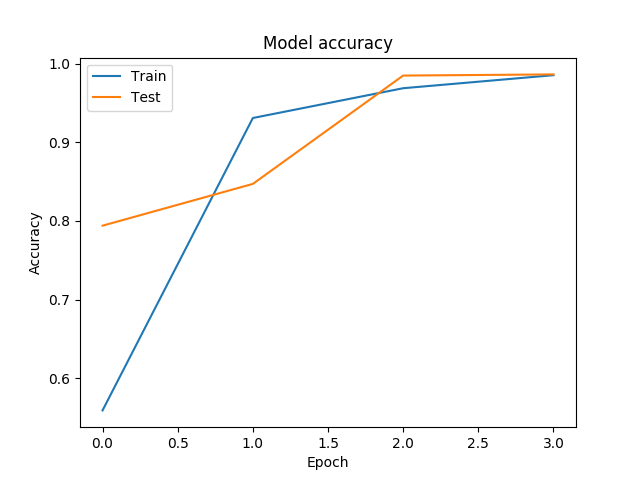
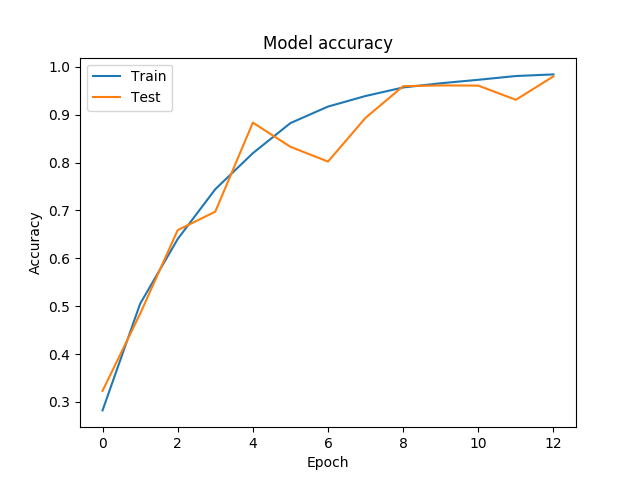
Added predictions and confusion matrix export
Updated Read me,
Sample confusion matrix,
Removed early stopping of training

diff --git a/main.py b/main.py
@@ -1,7 +1,10 @@
 '''
 Function to train driver distraction detection
 date: 22.07.2019
-Arguments: -m --> to train mobile only network
+Arguments:  -m --> to train mobile only network
+            -t --> to test a trained network and generate confusion matrix
+            -p --> to provide a new path of the trained model. Default pathn is 
+                    same folder
 '''
 
 import keras
@@ -10,6 +13,7 @@ import matplotlib.pyplot as plt
 import model as m
 import loader as L
 import numpy
+from sklearn.metrics import confusion_matrix
 
 suffix = None
 
@@ -19,9 +23,9 @@ if '-m' in sys.argv:
     model = m.model()[0]
     suffix = "Mobile"
 else:
-	print("INFO: Training for all distractions ...........")
-	model = m.model()[0]
-	suffix= "All"
+    print("INFO: Training for all distractions ...........")
+    model = m.model()[0]
+    suffix= "All"
 
 # Number of epochs 
 epoch = 13
@@ -37,38 +41,81 @@ y_val = numpy.array(y_val)
 es = keras.callbacks.EarlyStopping(monitor='val_loss', mode='min', verbose=1)
 mc = keras.callbacks.ModelCheckpoint('best_model' + suffix + '.h5', monitor='val_loss', mode='min')
 
-model.compile(optimizer='RMSprop', loss='categorical_crossentropy', metrics=['accuracy'])
+rmsprop = keras.optimizers.RMSprop(lr=0.0001, decay=1e-6) #rho=0.9, epsilon=None
+
+model.compile(optimizer=rmsprop, loss='categorical_crossentropy', metrics=['accuracy'])
 
 # To check the validity of data
 for ele in x_train:
-	if numpy.isnan(numpy.sum(ele)):
-		print("Found NAAAAAAAAAAAAAAAAAAAAAAAAAAAAN")
-	if numpy.isinf(numpy.sum(ele)):
-		print("Found INFFFFFFFFFFFFFFFFFFFFFFFFFFFF")
+    if numpy.isnan(numpy.sum(ele)):
+        print("Found NAAAAAAAAAAAAAAAAAAAAAAAAAAAAN")
+    if numpy.isinf(numpy.sum(ele)):
+        print("Found INFFFFFFFFFFFFFFFFFFFFFFFFFFFF")
 for ele in x_val:
-	if numpy.isnan(numpy.sum(ele)):
-		print("Found NAAAAAAAAAAAAAAAAAAAAAAAAAAAAN")
-	if numpy.isinf(numpy.sum(ele)):
-		print("Found INFFFFFFFFFFFFFFFFFFFFFFFFFFFF")
+    if numpy.isnan(numpy.sum(ele)):
+        print("Found NAAAAAAAAAAAAAAAAAAAAAAAAAAAAN")
+    if numpy.isinf(numpy.sum(ele)):
+        print("Found INFFFFFFFFFFFFFFFFFFFFFFFFFFFF")
 
-history = model.fit(x_train, y_train, validation_data=(x_val, y_val), epochs=epoch, batch_size=batch_size, callbacks=[es, mc])
+def getTrainedModel(p='best_modelAll.h5'):
+    if ('-m' in sys.argv) and not('-p' in sys.argv):
+        p = 'best_modelMobile.h5'
+    if '-p' in sys.argv:
+        for arg in sys.argv:
+            if not(arg in ["main.py", "-p", "-m", "-t"]):
+                p = arg
+    return(keras.models.load_model(p))
 
-print(history.history)
+def plotSaveConfusionMatrix(matrix, classes="All"):
+    #for matrix in confusion_matrices:
+    fig, ax = plt.subplots(figsize=(8,8))
+    ax.matshow(matrix, cmap='seismic', aspect='auto')
+    for (i, j), z in numpy.ndenumerate(matrix):
+        ax.text(j, i, '{:0.1f}'.format(z), ha='center', va='center',fontsize=8, color='white')
+    plt.title('Confusion Matrix DDD : ' + classes + ' Classes', fontsize=14)
+    plt.ylabel('True Label')
+    plt.xlabel('Predicated Label')
+    if classes == "All":
+        l = numpy.array([0,1,2,3,4,5,6,7,8,9])
+        c = ['c0','c1','c2','c3','c4','c5','c6','c7','c8','c9']
+    else:
+        l = numpy.array([0,1,2,3,4,5])
+        c = ['c0','c1','c2','c3','c4','c5']
+    plt.xticks(l, c)
+    plt.yticks(l, c)
+    plt.savefig(classes + 'Classes' +'Confusion_matrix'+'.png')
 
-# Plot training & validation accuracy values
-plt.plot(history.history['acc'])
-plt.plot(history.history['val_acc'])
-plt.title('Model accuracy')
-plt.ylabel('Accuracy')
-plt.xlabel('Epoch')
-plt.legend(['Train', 'Test'], loc='upper left')
-plt.show()
+if '-t' in sys.argv:
+    #Testing previously trained model
+    if '-t' in sys.argv:
+        model = getTrainedModel()
+    score = model.evaluate(x_val, y_val, verbose=0)
+    print("%s: %.2f%%" % (model.metrics_names[1], score[1]*100))
+    predictions = model.predict(x_val)
+    matrix = confusion_matrix(y_val.argmax(axis=1), predictions.argmax(axis=1))
+    if '-m'in sys.argv:
+        classes = 'Mobile'
+    else:
+        classes = 'All'
+    print("Confusion Matrix : ", matrix)
+    plotSaveConfusionMatrix(matrix, classes)
+else:
+    history = model.fit(x_train, y_train, validation_data=(x_val, y_val), epochs=epoch, batch_size=batch_size)#, callbacks=[es, mc])
 
-# Plot training & validation loss values
-plt.plot(history.history['loss'])
-plt.plot(history.history['val_loss'])
-plt.title('Model loss')
-plt.ylabel('Loss')
-plt.xlabel('Epoch')
-plt.legend(['Train', 'Test'], loc='upper left')
-plt.show()
+    # Plot training & validation accuracy values
+    plt.plot(history.history['acc'])
+    plt.plot(history.history['val_acc'])
+    plt.title('Model accuracy')
+    plt.ylabel('Accuracy')
+    plt.xlabel('Epoch')
+    plt.legend(['Train', 'Test'], loc='upper left')
+    plt.show()
+
+    # Plot training & validation loss values
+    plt.plot(history.history['loss'])
+    plt.plot(history.history['val_loss'])
+    plt.title('Model loss')
+    plt.ylabel('Loss')
+    plt.xlabel('Epoch')
+    plt.legend(['Train', 'Test'], loc='upper left')
+    plt.show()

diff --git a/README.md b/README.md
@@ -60,6 +60,10 @@ GPU: GeForce RTX 2080 Ti
 3. Activate the environment: 
     source TensorKeras/bin/activate
 
-4. Run "python main.py" : for all classes predictions
+4. Run "python main.py" : for all classes training
 
-5. Run "python main.py -m": for mobile only classes
+5. Run "python main.py -m": for mobile only classes training
+
+6. Run "python main.py -t" : for all classes predictions
+
+7. Run "python main.py -m -t" : for mobile only classes predictions
